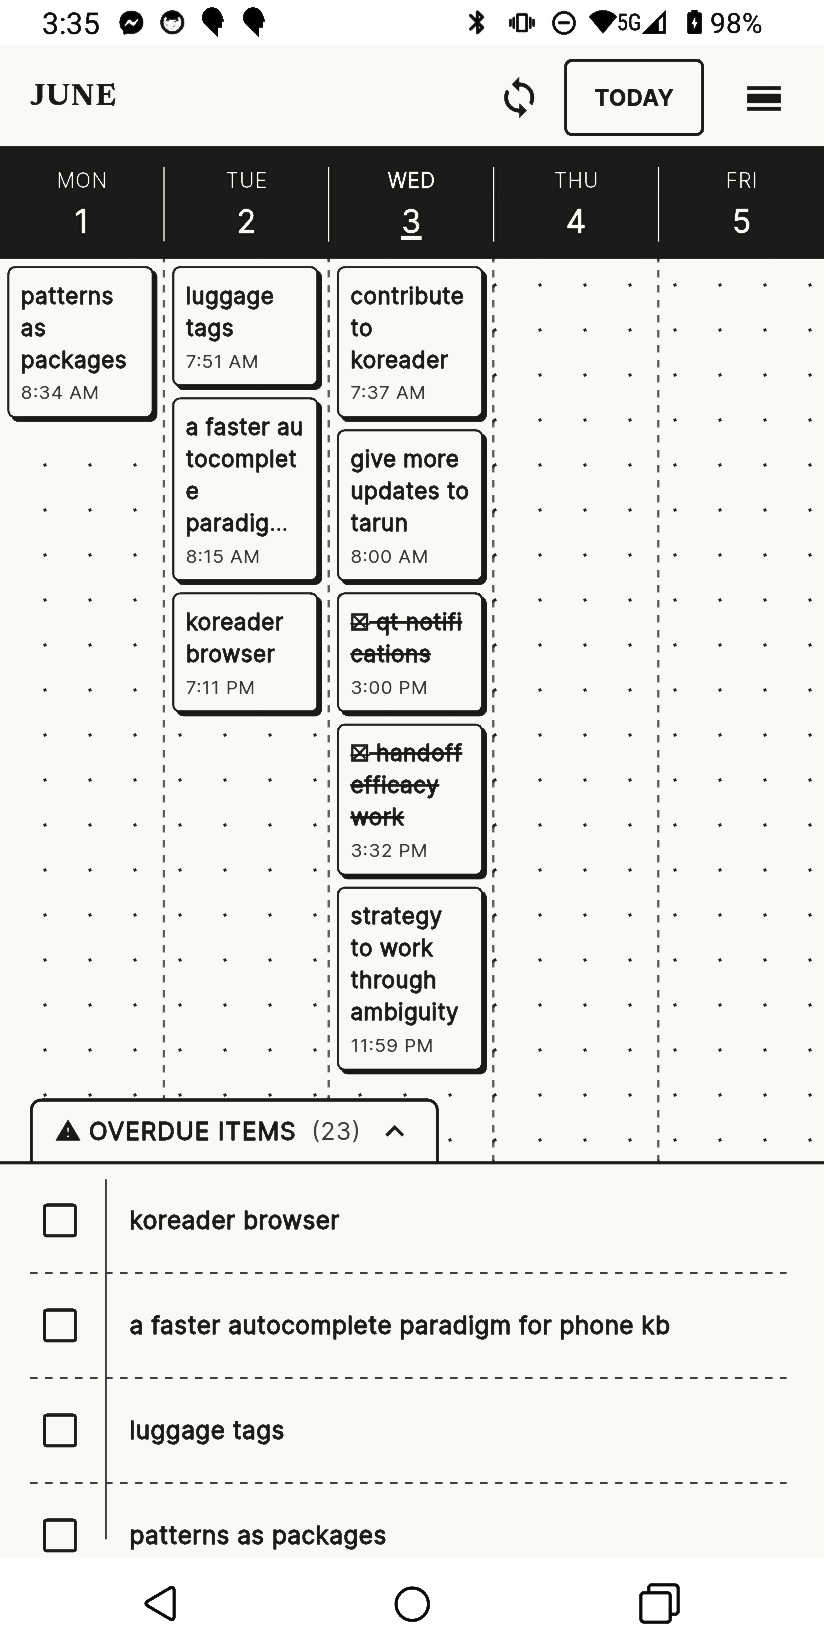
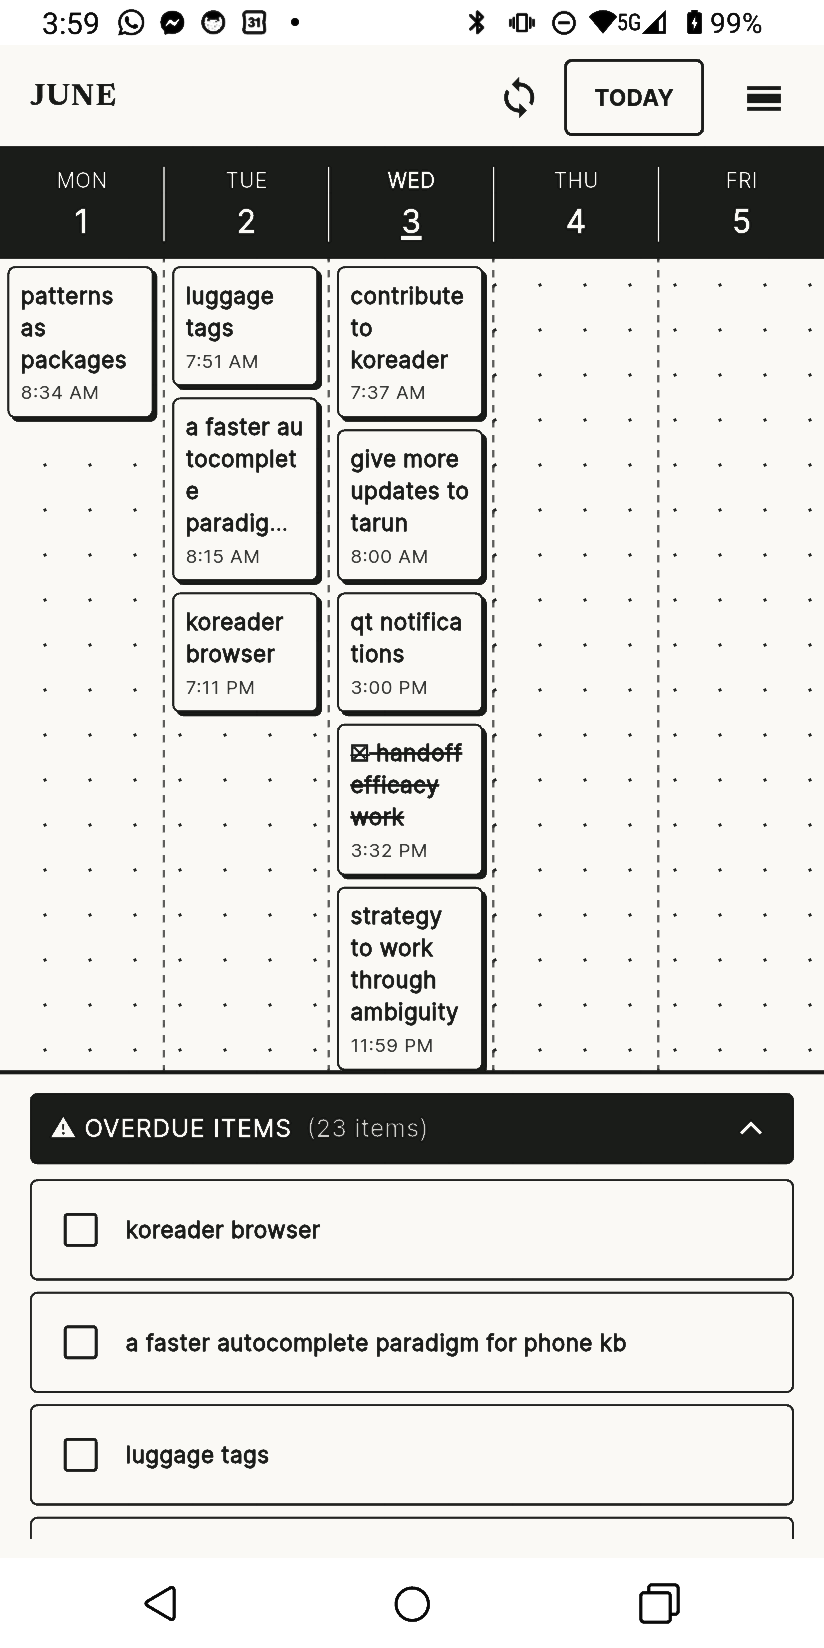
docs: update README screenshots and add drag preview image

diff --git a/README.md b/README.md
@@ -9,9 +9,10 @@ It's built for an e-ink Android phone as the primary device, so the design is hi
 ## Screenshots
 
 <p align="center">
-  <img src="assets/screenshots/day_view.png" width="32%" alt="Day View" />
-  <img src="assets/screenshots/week_view.png" width="32%" alt="Week View" />
-  <img src="assets/screenshots/item_bottom_sheet.png" width="32%" alt="Create/Edit Task Sheet" />
+  <img src="assets/screenshots/day_view.png" width="24%" alt="Day View" />
+  <img src="assets/screenshots/day_view_drag.png" width="24%" alt="Drag Preview" />
+  <img src="assets/screenshots/week_view.png" width="24%" alt="Week View" />
+  <img src="assets/screenshots/item_bottom_sheet.png" width="24%" alt="Create/Edit Task Sheet" />
 </p>
 
 ## Features